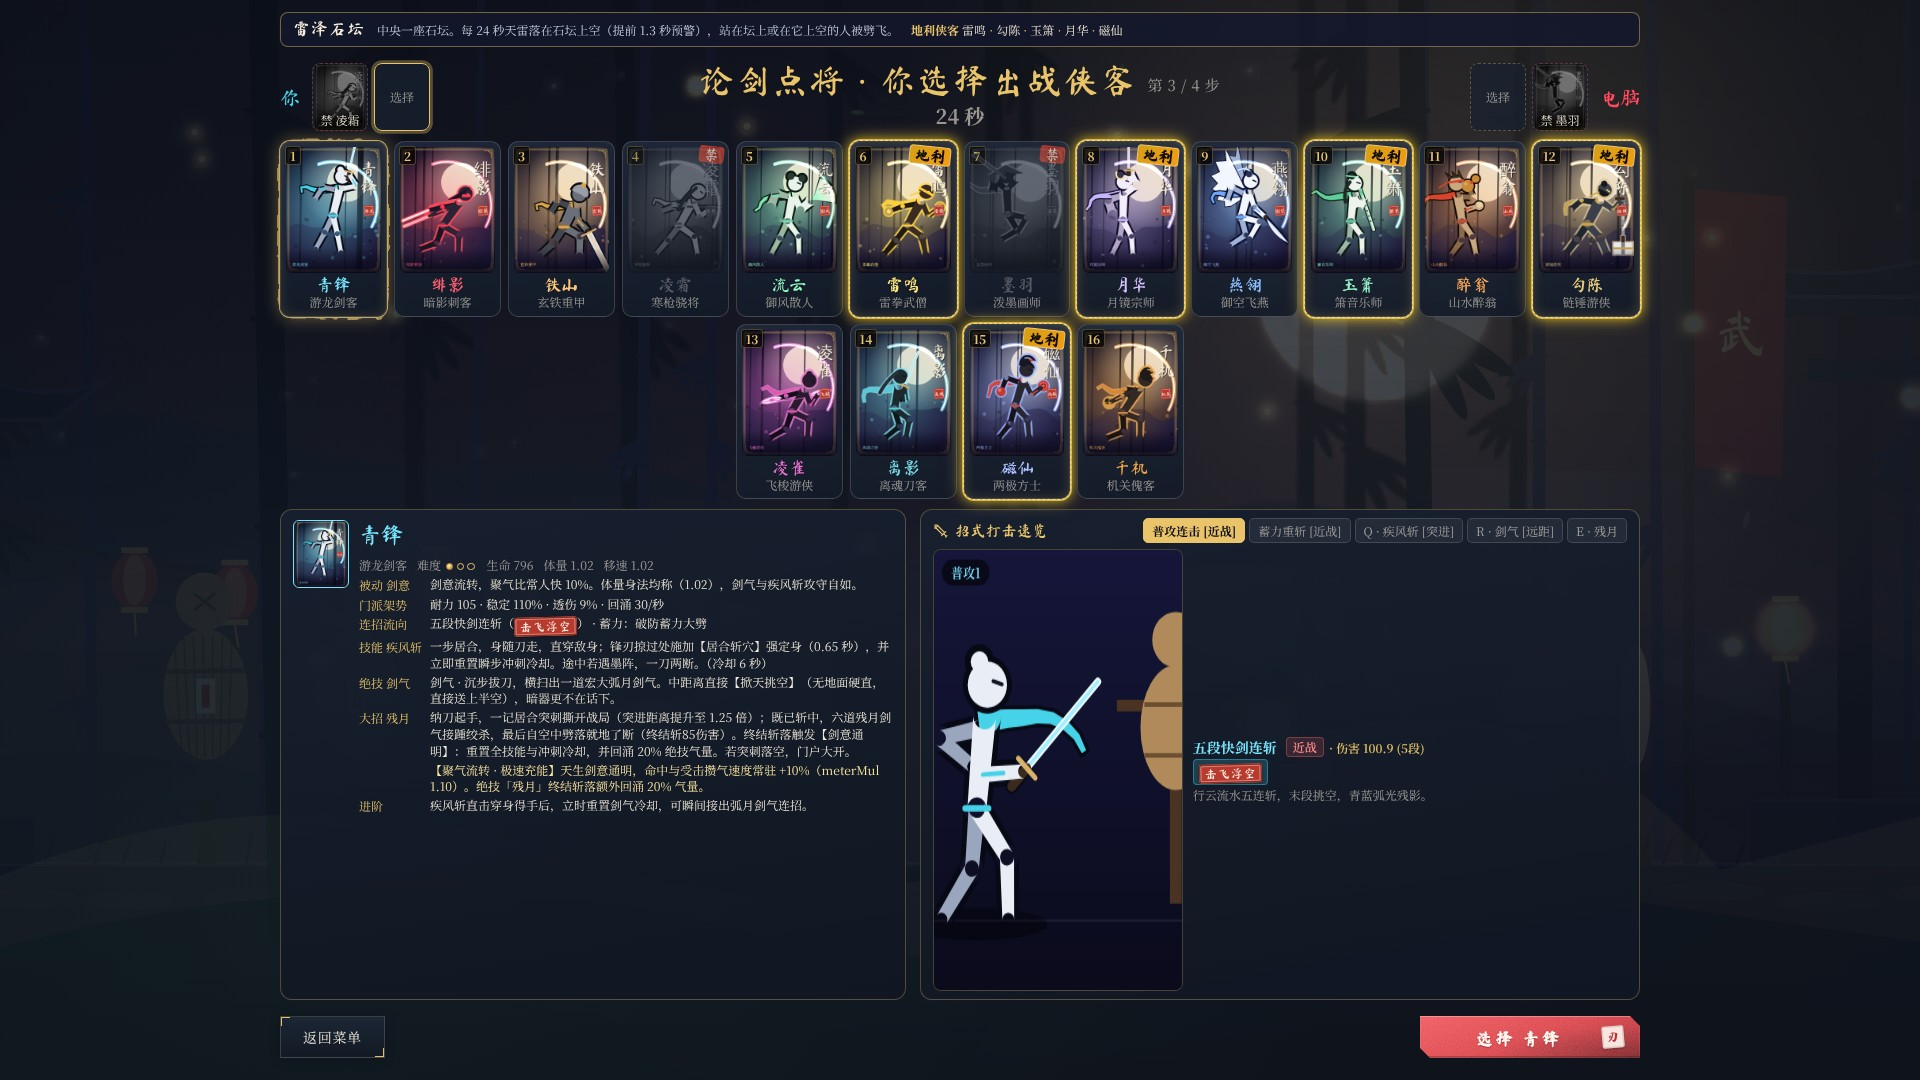
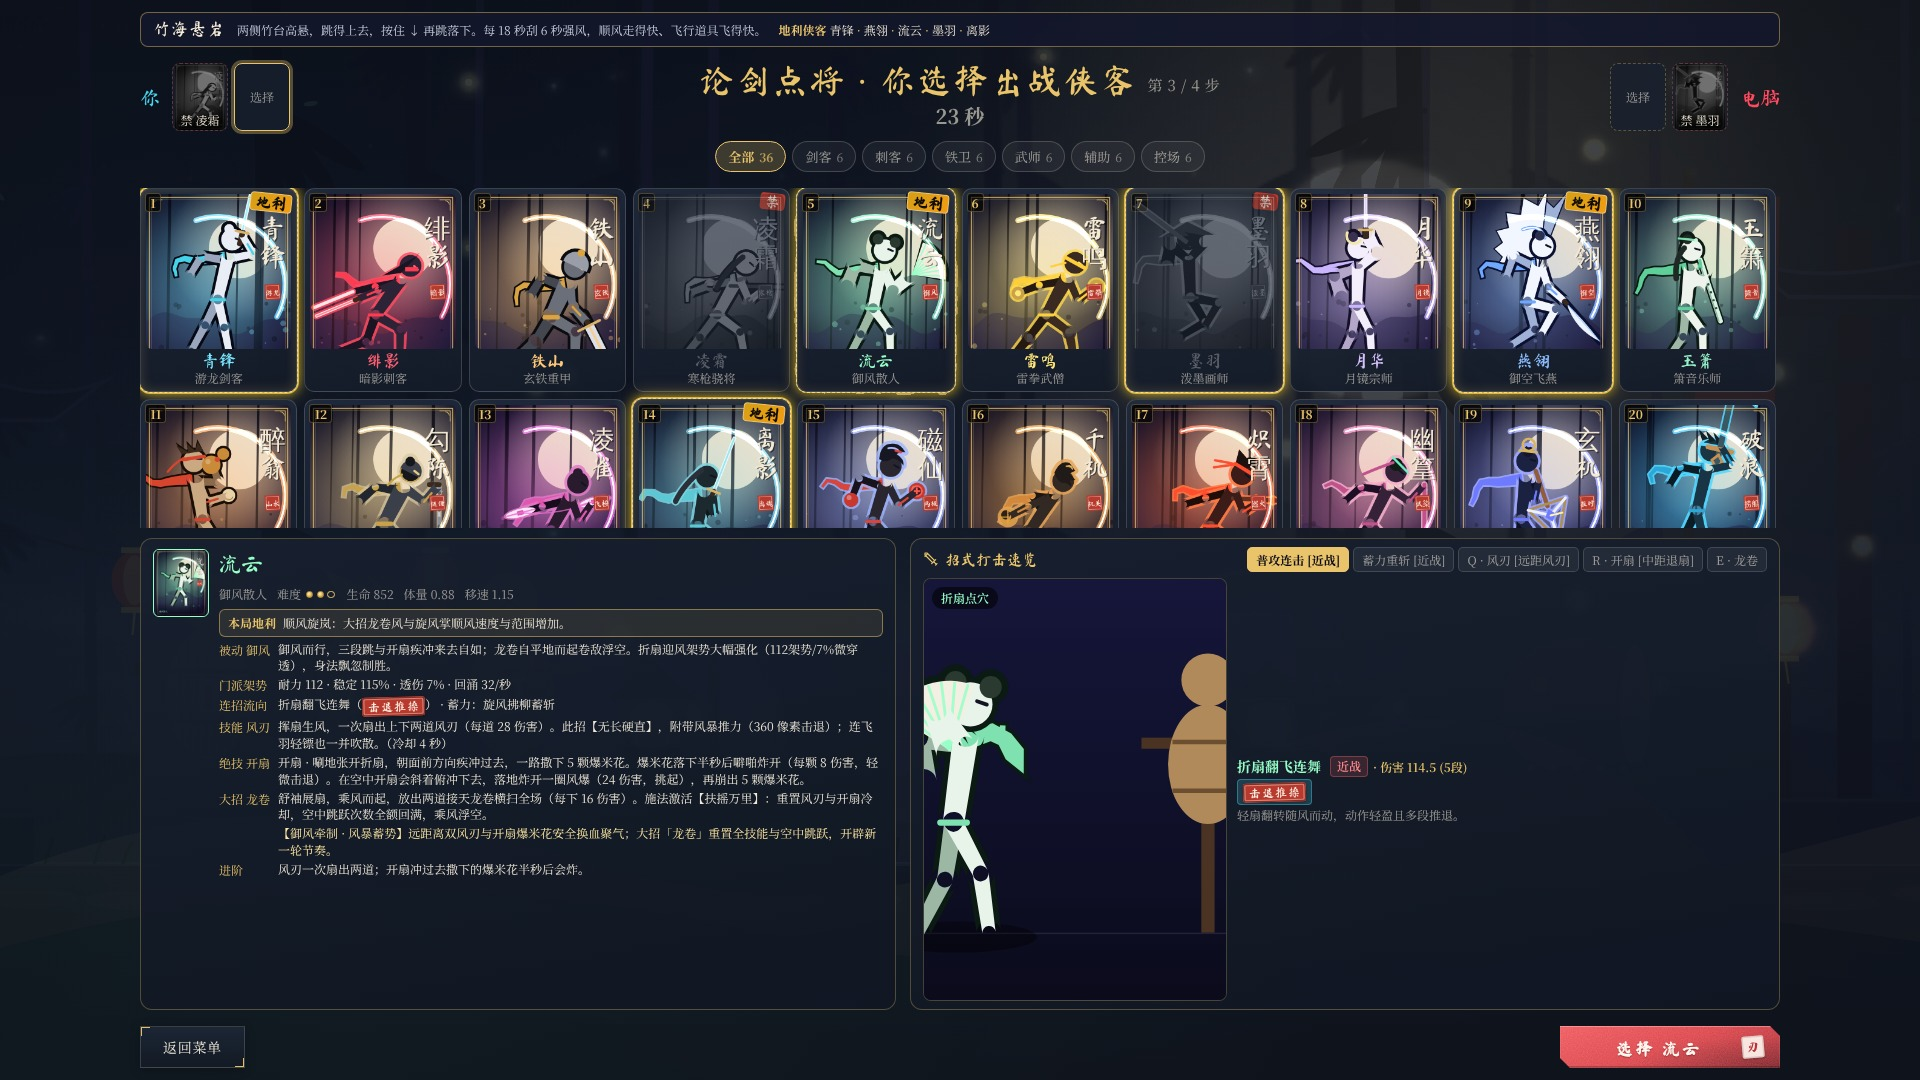
docs: refresh screenshots
Claude-Session: https://claude.ai/code/session_012WWxQbjjSxaRFEAqihDwHv

diff --git a/docs/media/screenshots/readme.md b/docs/media/screenshots/readme.md
@@ -1,9 +1,10 @@
 # Screenshots
 
-In-game screenshots of RenYing at 1920×1080, taken in a browser from build 38bf5e8 (v1.0.7). `en/` uses the English interface and `zh/` uses the Chinese interface.
+In-game screenshots of RenYing at 1920×1080, taken in a browser from build 34e1a81 (v1.0.12). `en/` uses the English interface and `zh/` uses the Chinese interface.
 
-- Fight shots come from the built-in AI exhibition mode (AI vs AI on the hardest level). The frame-rate counter in the bottom-left corner was hidden; nothing else was edited.
+- Fight shots come from the built-in AI exhibition mode (AI vs AI on the hardest level), the 16v16 and four-team modes, and Training mode. The frame-rate counter in the bottom-left corner was hidden; nothing else was edited.
 - Armory shots were taken on a local test server with a test account and test Ink. They show no real player data.
+- The loading screen is the start-up screen held on screen so it can be captured.
 
 ## English Interface
 
@@ -12,11 +13,17 @@ In-game screenshots of RenYing at 1920×1080, taken in a browser from build 38bf
 | `en/01-home.jpg` | Home screen with Qing Feng under the moon |
 | `en/02-thunder-armor.jpg` | Lei Ming's Vajra Armor while lightning strikes on the Thunder Altar map |
 | `en/03-combo.jpg` | Qing Feng's 7-hit combo with Sword Qi returning |
-| `en/04-ultimate.jpg` | Qing Feng's Crescent Moon ultimate with its close-up camera |
-| `en/05-finisher.jpg` | A finishing blow |
-| `en/06-2v2.jpg` | A 2v2 fight with three lightning strikes |
-| `en/07-hero-draft.jpg` | Hero draft with all 16 heroes, bans and home-ground picks |
+| `en/04-ultimate.jpg` | Qing Feng's Crescent Moon ultimate |
+| `en/05-finisher.jpg` | A 10-hit finishing combo from Fei Ying |
+| `en/06-2v2.jpg` | A 2v2 fight with lightning strikes |
+| `en/07-hero-draft.jpg` | Hero draft with bans, home-ground picks and move details |
 | `en/08-case-opening.jpg` | Opening a Zodiac Case in the Armory |
+| `en/09-case-reveal.jpg` | A top-tier skin reveal |
+| `en/10-skin-preview.jpg` | Skin preview with a move animation |
+| `en/11-16v16-command.jpg` | A 16v16 team battle with the commander and tactic panel |
+| `en/12-quad-clash.jpg` | A four-team clash on the multi-level arena |
+| `en/13-training.jpg` | Training mode with the docked status panel |
+| `en/14-loading.jpg` | The start-up loading screen |
 
 ## Chinese Interface
 
@@ -26,21 +33,20 @@ In-game screenshots of RenYing at 1920×1080, taken in a browser from build 38bf
 | `zh/02-guard-break.jpg` | Lei Ming breaking Fei Ying's guard |
 | `zh/03-lock-down.jpg` | Yue Hua's Lunar Judgment locking down Ling Shuang |
 | `zh/04-thousand-shadows.jpg` | Fei Ying's Thousand Shadows ultimate connecting |
-| `zh/05-finisher.jpg` | A finishing blow |
-| `zh/06-2v2.jpg` | A 2v2 fight under a blood moon with lightning strikes |
-| `zh/07-hero-draft.jpg` | Hero draft with Qing Feng's move details |
-| `zh/08-case-opening.jpg` | Opening a Divine Arms Case |
+| `zh/05-finisher.jpg` | A 7-hit finishing combo |
+| `zh/06-2v2.jpg` | A 2v2 fight with lightning strikes |
+| `zh/07-hero-draft.jpg` | Hero draft with Liu Yun's move details |
+| `zh/08-case-opening.jpg` | Opening a case in the Armory |
 | `zh/09-case-reveal.jpg` | A top-tier skin reveal |
-| `zh/10-open-all.jpg` | Results of opening every case at once |
-| `zh/11-skin-preview.jpg` | Skin preview with a move animation |
+| `zh/10-skin-preview.jpg` | Skin preview with a move animation |
+| `zh/11-16v16-command.jpg` | A 16v16 team battle with a commander order |
+| `zh/12-quad-clash.jpg` | A four-team clash on the multi-level arena |
+| `zh/13-training.jpg` | Training mode with the docked status panel |
+| `zh/14-loading.jpg` | The start-up loading screen |
 
 ## Known Interface Gaps Seen While Capturing
 
-These are not fixed yet. The English set avoids them where it can.
+These are not fixed yet.
 
-- Round start banners and the 2v2 start banner and footer are still in Chinese in English mode.
-- In the draft screen, Qian Ji's title and home-ground descriptions are still in Chinese.
-- In the Armory, four case names, the skin codex tab, the type filter, the inventory count line, the skip controls, skin names in the preview and the "how to get" text are still in Chinese. The open button reads "On".
-- Half of the open world info panel is still in Chinese.
-- The home screen tagline says 12 heroes; there are 16.
-- At 1280×720 the Armory tab in the top bar is covered by the Ink counter.
+- In English mode the round start banner ("第一回合"), the "Practice" and "Online Battle" card subtitles, the "Updates" card, the armory type filter ("全部类型"), the welcome-gift banner and several Training panel labels are still in Chinese.
+- The home screen tagline says 16 heroes while the draft screen lists 36.

diff --git a/readme.zh-cn.md b/readme.zh-cn.md
@@ -61,7 +61,7 @@
 
 ## 游戏截图
 
-以下截图展示了中文界面的战斗、点将台和武库。可以在[截图说明](docs/media/screenshots/readme.md)里查看完整截图集。
+以下截图展示了中文界面的战斗、点将台、武库和 16v16 团战。可以在[截图说明](docs/media/screenshots/readme.md)里查看完整截图集。
 
 <p align="center">
   <a href="docs/media/screenshots/zh/01-home.jpg"><img src="docs/media/screenshots/zh/01-home.jpg" width="48%" alt="刃影中文主界面" /></a>
@@ -72,17 +72,24 @@
 
 <p align="center">
   <a href="docs/media/screenshots/zh/04-thousand-shadows.jpg"><img src="docs/media/screenshots/zh/04-thousand-shadows.jpg" width="48%" alt="绯影的千影大招命中" /></a>
-  <a href="docs/media/screenshots/zh/06-2v2.jpg"><img src="docs/media/screenshots/zh/06-2v2.jpg" width="48%" alt="血月下的二对二战斗" /></a>
+  <a href="docs/media/screenshots/zh/06-2v2.jpg"><img src="docs/media/screenshots/zh/06-2v2.jpg" width="48%" alt="天雷之下的二对二战斗" /></a>
 </p>
 
 <p align="center"><strong>千影大招</strong> · <strong>二对二战斗</strong></p>
 
 <p align="center">
-  <a href="docs/media/screenshots/zh/07-hero-draft.jpg"><img src="docs/media/screenshots/zh/07-hero-draft.jpg" width="48%" alt="展示青锋招式详情的点将台" /></a>
-  <a href="docs/media/screenshots/zh/11-skin-preview.jpg"><img src="docs/media/screenshots/zh/11-skin-preview.jpg" width="48%" alt="带招式动画的皮肤预览" /></a>
+  <a href="docs/media/screenshots/zh/07-hero-draft.jpg"><img src="docs/media/screenshots/zh/07-hero-draft.jpg" width="48%" alt="带招式详情的点将台" /></a>
+  <a href="docs/media/screenshots/zh/10-skin-preview.jpg"><img src="docs/media/screenshots/zh/10-skin-preview.jpg" width="48%" alt="带招式动画的皮肤预览" /></a>
 </p>
 
 <p align="center"><strong>点将台</strong> · <strong>皮肤与招式预览</strong></p>
+
+<p align="center">
+  <a href="docs/media/screenshots/zh/11-16v16-command.jpg"><img src="docs/media/screenshots/zh/11-16v16-command.jpg" width="48%" alt="每队有统帅的 16v16 团战" /></a>
+  <a href="docs/media/screenshots/zh/12-quad-clash.jpg"><img src="docs/media/screenshots/zh/12-quad-clash.jpg" width="48%" alt="多层擂台上的四队混战" /></a>
+</p>
+
+<p align="center"><strong>16v16 与将令</strong> · <strong>四象争锋</strong></p>
 
 ---
 

diff --git a/readme.md b/readme.md
@@ -61,7 +61,7 @@ The game is bilingual: Simplified Chinese and English, switchable at any time fr
 
 ## Screenshots
 
-These captures show the English interface in combat, hero draft and the Armory. [Browse the full screenshot set](docs/media/screenshots/readme.md).
+These captures show the English interface in combat, hero draft, the Armory and 16v16 team battles. [Browse the full screenshot set](docs/media/screenshots/readme.md).
 
 <p align="center">
   <a href="docs/media/screenshots/en/01-home.jpg"><img src="docs/media/screenshots/en/01-home.jpg" width="48%" alt="English home screen with Qing Feng under the moon" /></a>
@@ -78,11 +78,18 @@ These captures show the English interface in combat, hero draft and the Armory. 
 <p align="center"><strong>Crescent Moon ultimate</strong> · <strong>2v2 battle</strong></p>
 
 <p align="center">
-  <a href="docs/media/screenshots/en/07-hero-draft.jpg"><img src="docs/media/screenshots/en/07-hero-draft.jpg" width="48%" alt="Hero draft with all sixteen heroes" /></a>
+  <a href="docs/media/screenshots/en/07-hero-draft.jpg"><img src="docs/media/screenshots/en/07-hero-draft.jpg" width="48%" alt="Hero draft with the full hero roster" /></a>
   <a href="docs/media/screenshots/en/08-case-opening.jpg"><img src="docs/media/screenshots/en/08-case-opening.jpg" width="48%" alt="Opening a Zodiac Case in the Armory" /></a>
 </p>
 
 <p align="center"><strong>Hero draft</strong> · <strong>Armory case opening</strong></p>
+
+<p align="center">
+  <a href="docs/media/screenshots/en/11-16v16-command.jpg"><img src="docs/media/screenshots/en/11-16v16-command.jpg" width="48%" alt="A 16v16 team battle with a commander on each side" /></a>
+  <a href="docs/media/screenshots/en/12-quad-clash.jpg"><img src="docs/media/screenshots/en/12-quad-clash.jpg" width="48%" alt="A four-team clash on a multi-level arena" /></a>
+</p>
+
+<p align="center"><strong>16v16 with commander orders</strong> · <strong>Four-team clash</strong></p>
 
 ---
 

diff --git a/docs/history/changelog.md b/docs/history/changelog.md
@@ -21,6 +21,8 @@ All notable changes, features, and architectural capabilities of this project ar
 
 ### Changed
 
+- **Refreshed README And Screenshot Set (`docs/media/screenshots/`, `readme.md`, `readme.zh-cn.md`)**: retook all English and Chinese screenshots from build 34e1a81 (v1.0.12) at 1920×1080, added the 16v16 commander view, the four-team clash, Training mode and the loading screen, replaced `zh/10-open-all.jpg` and `zh/11-skin-preview.jpg` with `zh/10-skin-preview.jpg`, and updated the screenshot table and known-gaps list. No Worker change.
+
 - **New Boot Screen, Shared Loading Veil & AI Watch Tab in Training (`src/page.html`, `src/game/05-ui/21-buttons-04-loading.js`, `src/game/05-ui/21-buttons-02-training.js`, `tools/build.py`)**: The page now draws an ink-style boot screen right away, with a progress bar that follows the real script loading steps and fades out after the first frame. A shared loading veil (`RYLoad`) covers the Qingfeng Run frame while it loads. All AI vs AI entry buttons (duel, 3v3, 2v2, chaos, cuju, maps, mayhem) moved from their mode panels into one new AI Watch page under Training. No Worker redeploy needed.
 
 - **Separated GitHub Pages Build And Deploy Workflow (`.github/workflows/pages.yml`)**: split `pages.yml` into dedicated `build` and `deploy` jobs with least-privilege permissions, added `.github/actions/setup-ci/**` and `renying-offline.html` path triggers, staged `renying-offline.html` alongside `index.html`, `renying.html`, and `assets/` into `_site/`, and parameterized artifact names by `GITHUB_RUN_ATTEMPT`.
